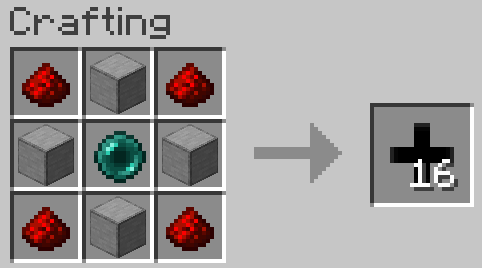
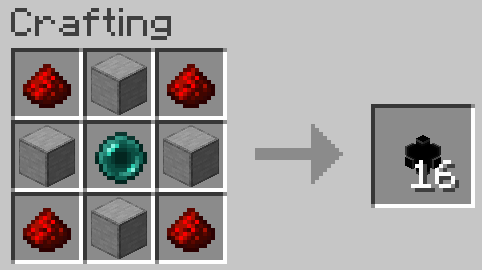
updated README.md

diff --git a/README.md b/README.md
@@ -17,6 +17,14 @@ You can find out more about the variation here: https://wpmedia.wolfram.com/uplo
 - Right click one of the cell blocks or cell support blocks.
 - The whole connected structure activates and the simulation starts.
 
+## Recipes
+#### Cell Support
+![Cell Support](https://raw.githubusercontent.com/LolHens/mc-game-of-life-3d/master/screenshots/recipe_cell_support.png)
+#### John Conway's 2D Cell
+![John Conway's 2D Cell](https://raw.githubusercontent.com/LolHens/mc-game-of-life-3d/master/screenshots/recipe_cell_conway.png)
+#### Carter Bays' 3D Cell
+![Carter Bays' 3D Cell](https://raw.githubusercontent.com/LolHens/mc-game-of-life-3d/master/screenshots/recipe_cell_bays.png)
+
 ## Screenshots
 ![](https://raw.githubusercontent.com/LolHens/mc-game-of-life-3d/master/screenshots/2020-07-18_23.18.23.png)
 ![](https://raw.githubusercontent.com/LolHens/mc-game-of-life-3d/master/screenshots/2020-07-18%20232058.png)
